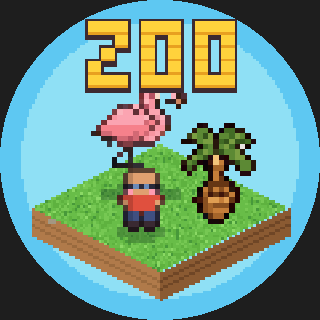
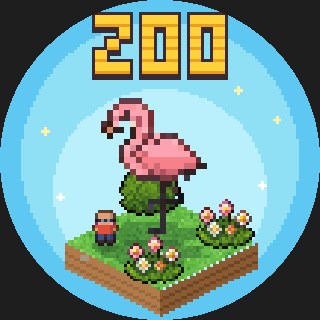
Profilový obrázek IG: velký plameňák jako hvězda ikony

diff --git a/art/proto/make_avatar.py b/art/proto/make_avatar.py
@@ -1,6 +1,7 @@
-"""Profilový obrázek IG: jedna plovoucí izometrická dlaždice (tráva + hlína) s plameňákem, návštěvníkem, palmou a nápisem ZOO.
-Nativně 90×90 px, zvětšeno 12× (1080²). Výstup: marketing/profile/avatar_zoo.png (+ 320px náhled)."""
-import json, os, sys
+"""Profilový obrázek IG: plovoucí izometrická dlaždice, na ní velký plameňák (hvězda), malý návštěvník, keř a květiny, nahoře nápis ZOO.
+Nativně 108×108 px, zvětšeno 10× (1080²). Plameňák je 2× hrubší než dlaždice, aby byl vidět i v kruhu 110 px na profilu.
+Výstup: marketing/profile/avatar_zoo.png (+ náhled v kruhu)."""
+import json, os, random, sys
 from PIL import Image, ImageDraw
 HERE = os.path.dirname(os.path.abspath(__file__)); sys.path.insert(0, HERE)
 import zoo_art as za, visitors
@@ -8,40 +9,45 @@ from zoo_art import hx
 ROOT = os.path.join(HERE, '..', '..')
 za.load_style('C_hybrid')
 meta = json.load(open(f'{ROOT}/web/public/assets/props.json')); atlas = Image.open(f'{ROOT}/web/public/assets/atlas.png').convert('RGBA')
-def prop(n): m = meta[n]; return atlas.crop((m['x'], m['y'], m['x'] + m['w'], m['y'] + m['h'])), (m['ax'], m['ay'])
-N = 120
+def prop(n):
+    m = meta[n]; return atlas.crop((m['x'], m['y'], m['x'] + m['w'], m['y'] + m['h'])), (m['ax'], m['ay'])
+N = 108
 img = Image.new('RGBA', (N, N), hx('#3fa9d6'))
 d = ImageDraw.Draw(img)
-d.ellipse([-4, -4, N + 3, N + 3], fill=hx('#5ec8f2'))          # kruhový „obal“ (IG ořízne do kruhu)
-d.ellipse([8, 8, N - 9, N - 9], fill=hx('#8fe0f5'))
-za.OXY = (60, 54)
-# tlouštka hlíny pod dlaždicí
-def P(i, j): return za.P(i, j)
-L, B, R = P(0, 3), P(3, 3), P(3, 0)
-T = 10
+d.ellipse([-5, -5, N + 4, N + 4], fill=hx('#5ec8f2'))                       # kruh, který IG ponechá
+d.ellipse([7, 7, N - 8, N - 8], fill=hx('#8fe0f5'))
+d.ellipse([18, 30, N - 19, N - 10], fill=hx('#b9f0fb'))                     # světlý „podstavec“ za plameňákem
+
+za.OXY = (54, 66)
+P = za.P
+L, B, R = P(0, 2), P(2, 2), P(2, 0)
+T = 8
 d.polygon([L, B, (B[0], B[1] + T), (L[0], L[1] + T)], fill=hx('#b07a4a'))
 d.polygon([B, R, (R[0], R[1] + T), (B[0], B[1] + T)], fill=hx('#8a5a32'))
-for k in (3, 6):                                                   # vrstvy hlíny
+for k in (3, 6):
     d.line([(L[0], L[1] + k), (B[0], B[1] + k)], fill=hx('#9a6a3e')); d.line([(B[0], B[1] + k), (R[0], R[1] + k)], fill=hx('#6f4626'))
-import random
-for i in range(3):
-    for j in range(3):
+for i in range(2):
+    for j in range(2):
         x, y = P(i, j); img.alpha_composite(za.tile_img('grass', random.Random(3 + i * 2 + j)), (int(x - 16), int(y)))
-# kameny na okraji
-d.rectangle([L[0] + 6, L[1] + 4, L[0] + 8, L[1] + 5], fill=hx('#a39782'))
-def put(name, i, j, flip=False, k=2):
+d.rectangle([L[0] + 5, L[1] + 4, L[0] + 7, L[1] + 5], fill=hx('#a39782'))
+
+def put(name, i, j, k=1, flip=False):
     im, a = prop(name)
-    im = im.resize((im.width * k, im.height * k), Image.NEAREST); a = (a[0] * k, a[1] * k)        # ikona: objekty 2× hrubší než dlaždice
+    if k != 1: im = im.resize((im.width * k, im.height * k), Image.NEAREST); a = (a[0] * k, a[1] * k)
     if flip: im = im.transpose(Image.FLIP_LEFT_RIGHT); a = (im.width - a[0], a[1])
     x, y = P(i, j); img.alpha_composite(im, (int(x - a[0]), int(y - a[1])))
-items = [('d_palm_pot', 2.35, 0.95), ('a_flamingo', 0.95, 1.45)]
-vis = visitors.visitor(visitors.new_spec(7, kind='plain', kid=False), 'SW', 0, shadow=True)
-draw_list = [(i + j, 'p', n, i, j) for n, i, j in items] + [(1.9 + 2.3, 'v', None, 1.9, 2.3)]
-for _, kind, n, i, j in sorted(draw_list, key=lambda e: e[0]):
-    if kind == 'p': put(n, i, j)
-    else:
-        x, y = P(i, j); v2 = vis.resize((vis.width * 2, vis.height * 2), Image.NEAREST); img.alpha_composite(v2, (int(x - v2.width // 2), int(y - v2.height + 4)))
-# nápis ZOO nahoře (zlatá, tmavý obrys, stín)
+
+put('bush1', 0.25, 0.45)                      # vzadu vlevo
+put('flowers', 1.75, 0.35)
+put('a_flamingo', 1.15, 1.25, k=2, flip=True)   # hvězda ikony
+vis = visitors.visitor(visitors.new_spec(7, kind='plain', kid=False), 'SE', 0, shadow=True)
+x, y = P(0.45, 1.6); img.alpha_composite(vis, (int(x - vis.width // 2), int(y - vis.height + 3)))
+put('flowers', 1.7, 1.8)
+
+# jiskry
+for (sx_, sy_, c) in [(15, 44, '#fff2a6'), (93, 40, '#fff2a6'), (88, 62, '#ffffff'), (20, 66, '#ffffff'), (80, 30, '#fff2a6')]:
+    d.rectangle([sx_ - 1, sy_, sx_ + 1, sy_], fill=hx(c)); d.rectangle([sx_, sy_ - 1, sx_, sy_ + 1], fill=hx(c))
+
 FONT = za.FONT
 def text(txt, cx, y, sc, col, ol):
     w = sum((len(FONT[c][0]) + 1) * sc for c in txt) - sc; x0 = cx - w // 2
@@ -60,10 +66,12 @@ def text(txt, cx, y, sc, col, ol):
                     d.rectangle([xx + k * sc, y + yy * sc, xx + k * sc + sc - 1, y + yy * sc + sc - 1], fill=col)
                     d.rectangle([xx + k * sc, y + yy * sc + sc - 1, xx + k * sc + sc - 1, y + yy * sc + sc - 1], fill=hx('#e8a020'))
         xx += (len(FONT[ch][0]) + 1) * sc
-text('ZOO', 60, 8, 5, hx('#ffd23c'), hx('#3d2a30'))
+text('ZOO', 54, 5, 4, hx('#ffd23c'), hx('#3d2a30'))
+
 out = os.path.join(ROOT, 'marketing', 'profile'); os.makedirs(out, exist_ok=True)
-big = img.resize((N * 9, N * 9), Image.NEAREST); big.save(f'{out}/avatar_zoo.png')
-# náhled v kruhu 320 (jak ho uvidí IG)
+big = img.resize((N * 10, N * 10), Image.NEAREST); big.save(f'{out}/avatar_zoo.png')
 sm = big.resize((320, 320), Image.NEAREST); mask = Image.new('L', (320, 320), 0); ImageDraw.Draw(mask).ellipse([0, 0, 319, 319], fill=255)
 circ = Image.new('RGBA', (320, 320), (30, 30, 30, 255)); circ.paste(sm, (0, 0), mask); circ.save(f'{out}/avatar_zoo_circle_preview.png')
+tiny = big.resize((110, 110), Image.NEAREST); m2 = Image.new('L', (110, 110), 0); ImageDraw.Draw(m2).ellipse([0, 0, 109, 109], fill=255)
+c2 = Image.new('RGBA', (110, 110), (30, 30, 30, 255)); c2.paste(tiny, (0, 0), m2); c2.save(f'{out}/avatar_zoo_110px_preview.png')
 print('ok')
